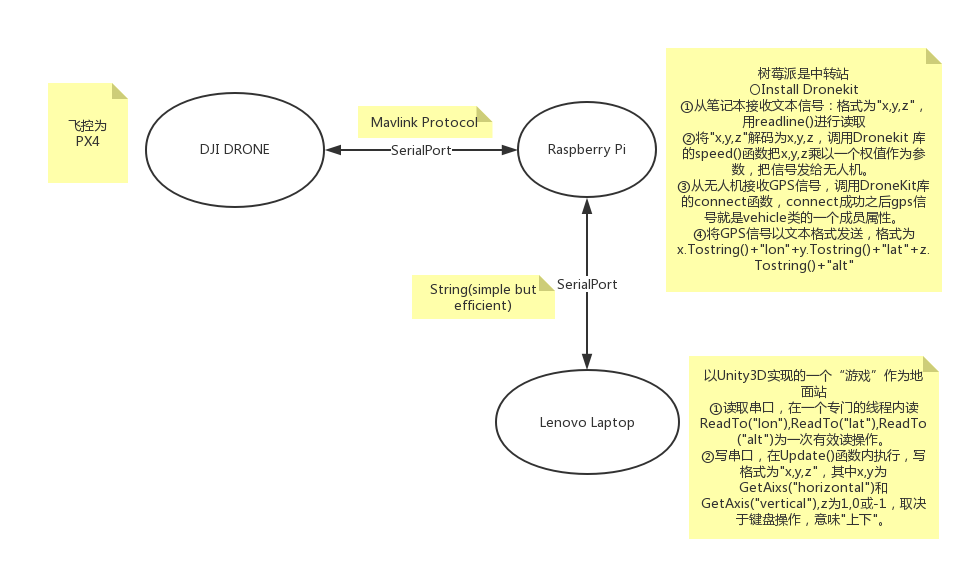
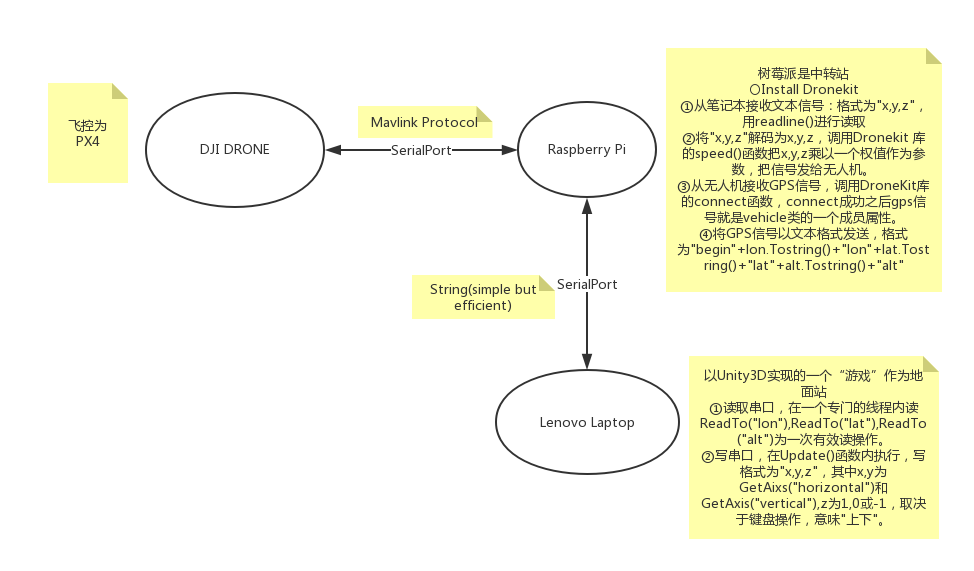
fix

Changed region(s): [[0.6776, 0.387, 0.9548, 0.4764]]

diff --git a/code/drone_final.py b/code/drone_final.py
@@ -48,6 +48,7 @@ def Read_Data_From_Pixhawk(vehicle):
     Read_Data = ''
     j = 0
     cnt = 0
+    Read_Data += 'begin'
     for i in range(len(data)):
         if data[i] == ',':
             Read_Data += data[j : i]

diff --git a/final_report.md b/final_report.md
@@ -204,6 +204,7 @@ def Read_Data_From_Pixhawk(vehicle):
     Read_Data = ''
     j = 0
     cnt = 0
+    Read_Data += 'begin'
     for i in range(len(data)):
         if data[i] == ',':
             Read_Data += data[j : i]
@@ -338,8 +339,6 @@ class StartCommCommand2 : Command
 	}
 ```
 
-
-
 ##### 信号量：（另一个信号量类似）
 
 ```
@@ -372,7 +371,7 @@ public class serialp
         private Queue<string> lonq=new Queue<string>();
         private Queue<string> latq=new Queue<string>();
         private Queue<string> altq=new Queue<string>();
-        public string lastlon ="121";
+        public string lastlon ="111";
         public string lastlat = "41";
         public string lastalt = "1300";
         private int read2 = new int();
@@ -388,6 +387,7 @@ public class serialp
                 {
                     if (comm.IsOpen)
                     {
+                    	comm.ReadTo("begin");
                         lastlon = comm.ReadTo("lon");
                         lastlat = comm.ReadTo("lat");
                         lastalt = comm.ReadTo("alt");
@@ -453,6 +453,7 @@ public class serialp
         }
         public void disposeserial()
         {
+        	comm.Close();
             comm.Dispose();
             return;
         }
@@ -496,8 +497,8 @@ public class AirplanePrefabMediator : Mediator
         {
             float x = Input.GetAxis("Horizontal");
             float y = Input.GetAxis("Vertical");
-            bool up = Input.GetKeyDown(KeyCode.A);
-            bool down = Input.GetKeyDown(KeyCode.S);
+            bool up = Input.GetKey(KeyCode.Z);
+            bool down = Input.GetKey(KeyCode.X);
             string z;
             if (up) z = "1";
             else if (down) z = "-1";
@@ -508,7 +509,7 @@ public class AirplanePrefabMediator : Mediator
 
 #### 实现效果
 
-我们在树莓派上实现了一个串口，它不断地发送自减的longitude和固定的latitude，altitude过来，我在unity里把这些参数print到console中。
+我们在树莓派上实现了一个串口，它不断地发送自减（一次减少0.001）的longitude和固定的latitude，altitude过来，我在unity里把这些参数print到console中。GPS的偶尔出错可以通过错误检测来实现（例如如果前后的lon，lat，alt差距大于一个阈值，就不更新view.lon，view.lat，view.alt）。
 
 ##### 笔记本视角
 
@@ -517,6 +518,8 @@ public class AirplanePrefabMediator : Mediator
 可见程序正确地收到了数据
 
 ##### 树莓派视角
+
+这里的矢量值是我们期望的无人机速度的方向矢量，各值上限为1，考虑到无人机上行和下行的动力问题，第三位Z（表示上下）的值只有1,0,-1三个值，这样子上下就设定为“向上，悬停，向下”三个状态而没有精确定量了。
 
 ![](report_pics/7.png)
 
